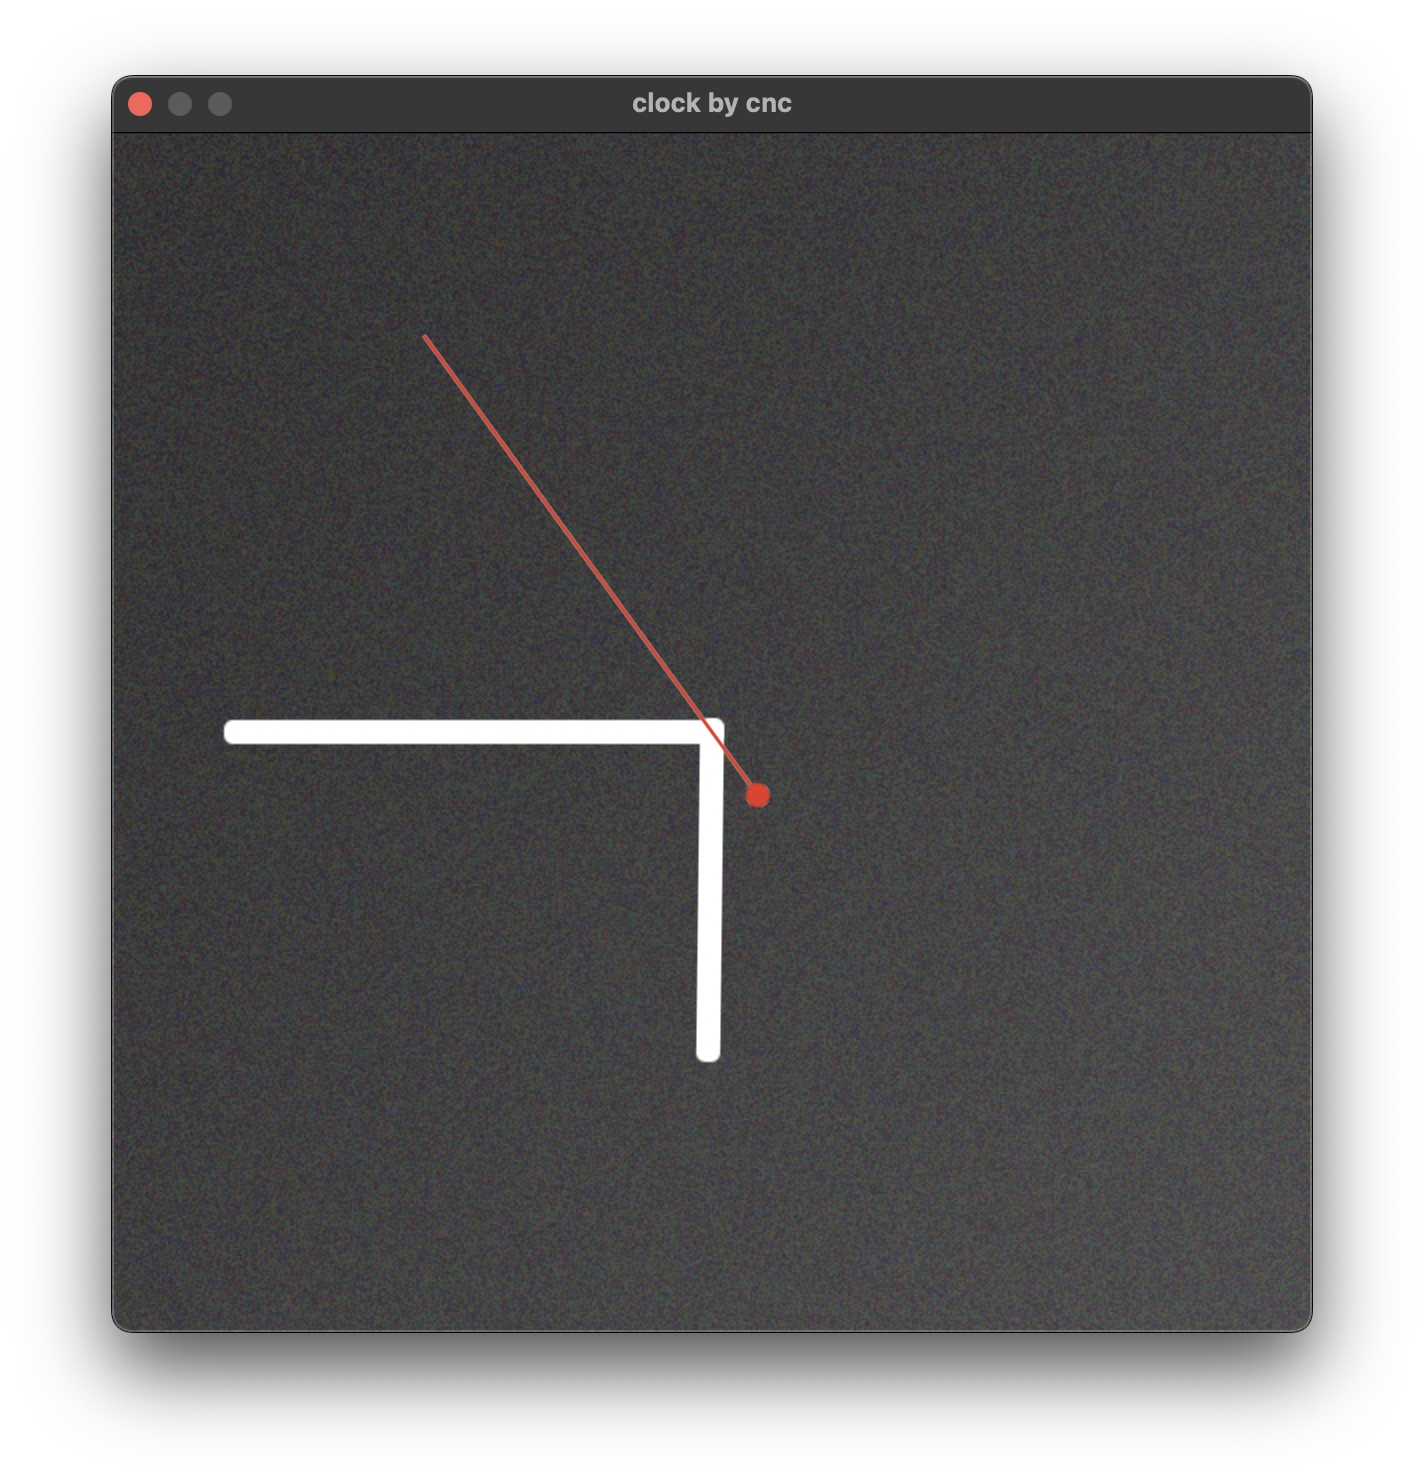
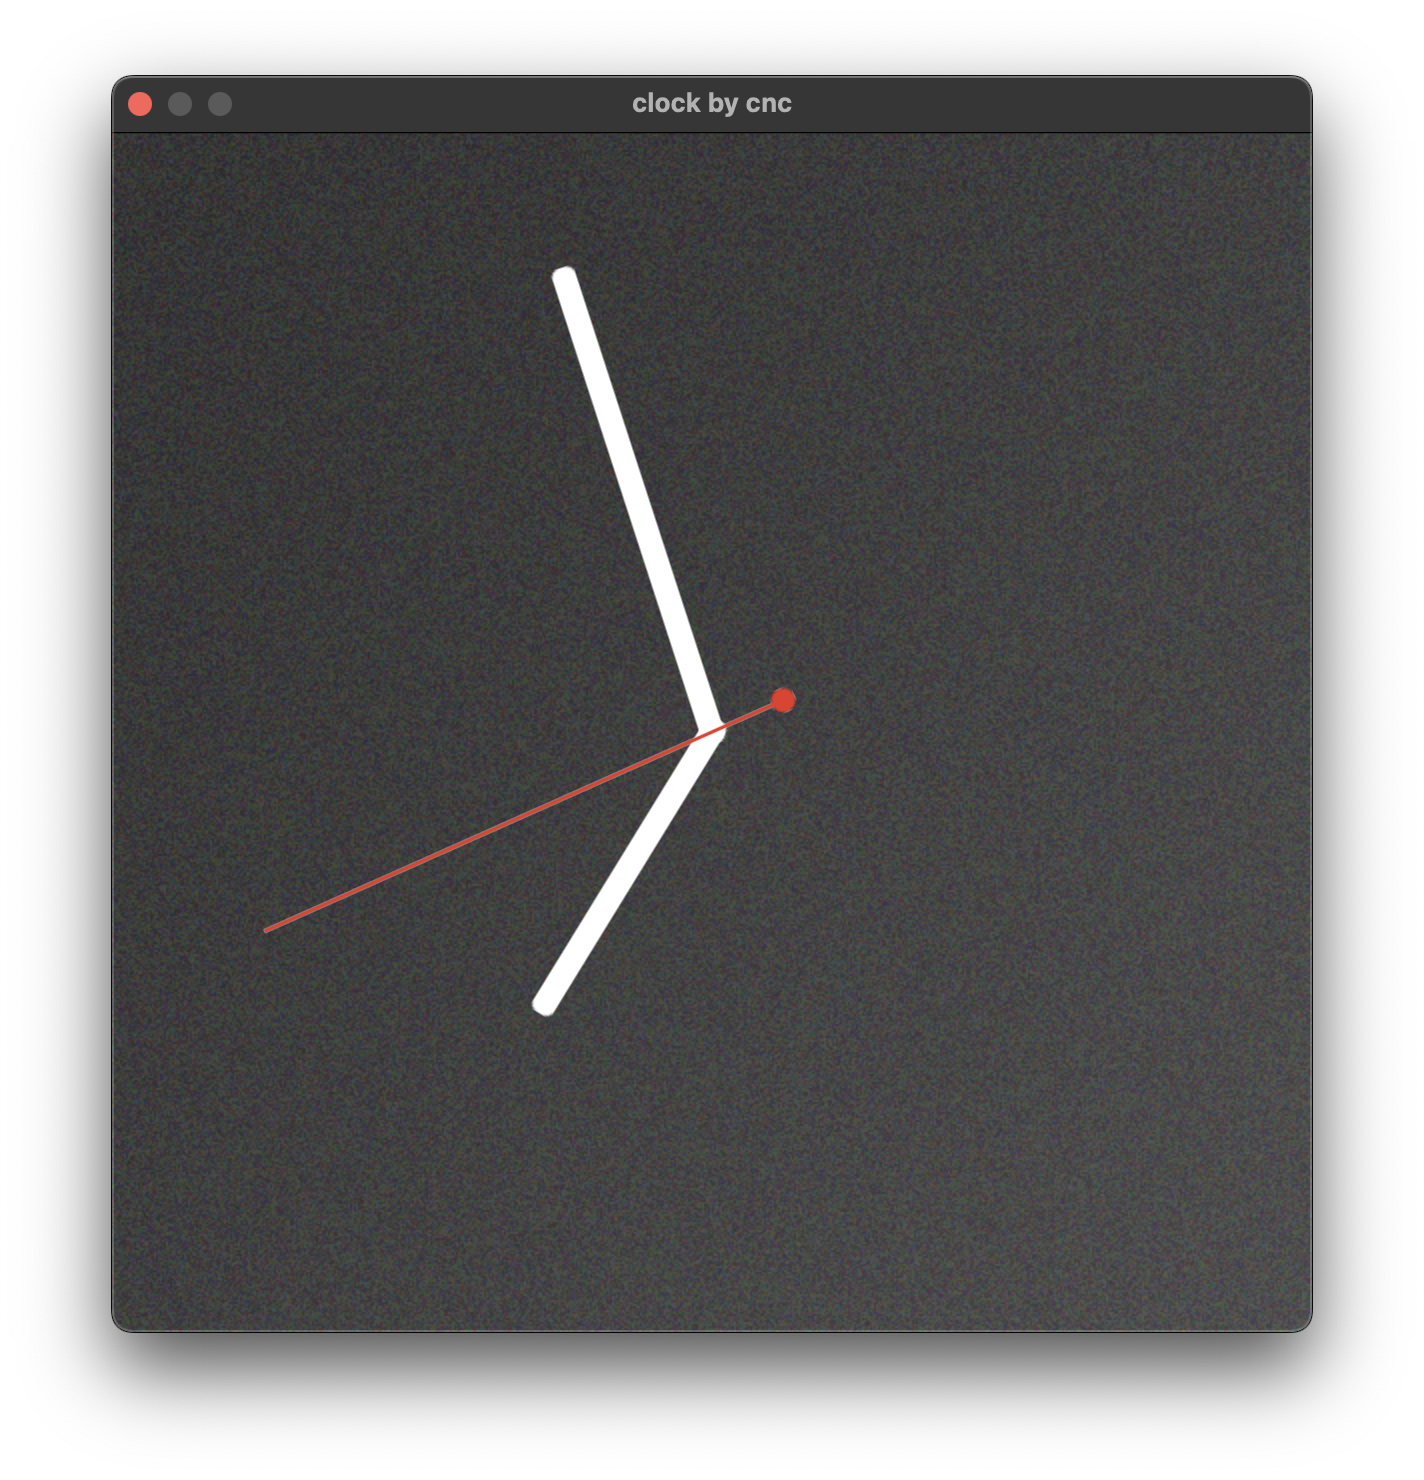
fixed hours calculation

diff --git a/CNC_Application.cpp b/CNC_Application.cpp
@@ -46,7 +46,7 @@ void Update( Application* application )
     clock->m_minutes = time->tm_min;
     clock->m_seconds = time->tm_sec;
 
-    clock->m_hoursAngle   = (CNC_2PI / 12.0) * (clock->m_hours + (1.0 / clock->m_minutes));
+    clock->m_hoursAngle   = (CNC_2PI / 12.0) * ((f32)clock->m_hours + (60.0 / (f32)clock->m_minutes));
     clock->m_minutesAngle = (CNC_2PI / 60.0) * clock->m_minutes;
     clock->m_secondsAngle = (CNC_2PI / 60.0) * clock->m_seconds;
 }

diff --git a/README.md b/README.md
@@ -2,9 +2,10 @@
 
 ## Analog clock app for MacOS
 
-This small projects builds an analog clock featuring the following concepts:
+This small project builds an analog clock featuring the following concepts:
 
 - creating a window
+- unity build
 - creating an application object
 - drawing with a constant frame rate
 - creating a hardware renderer using the Metal framework
